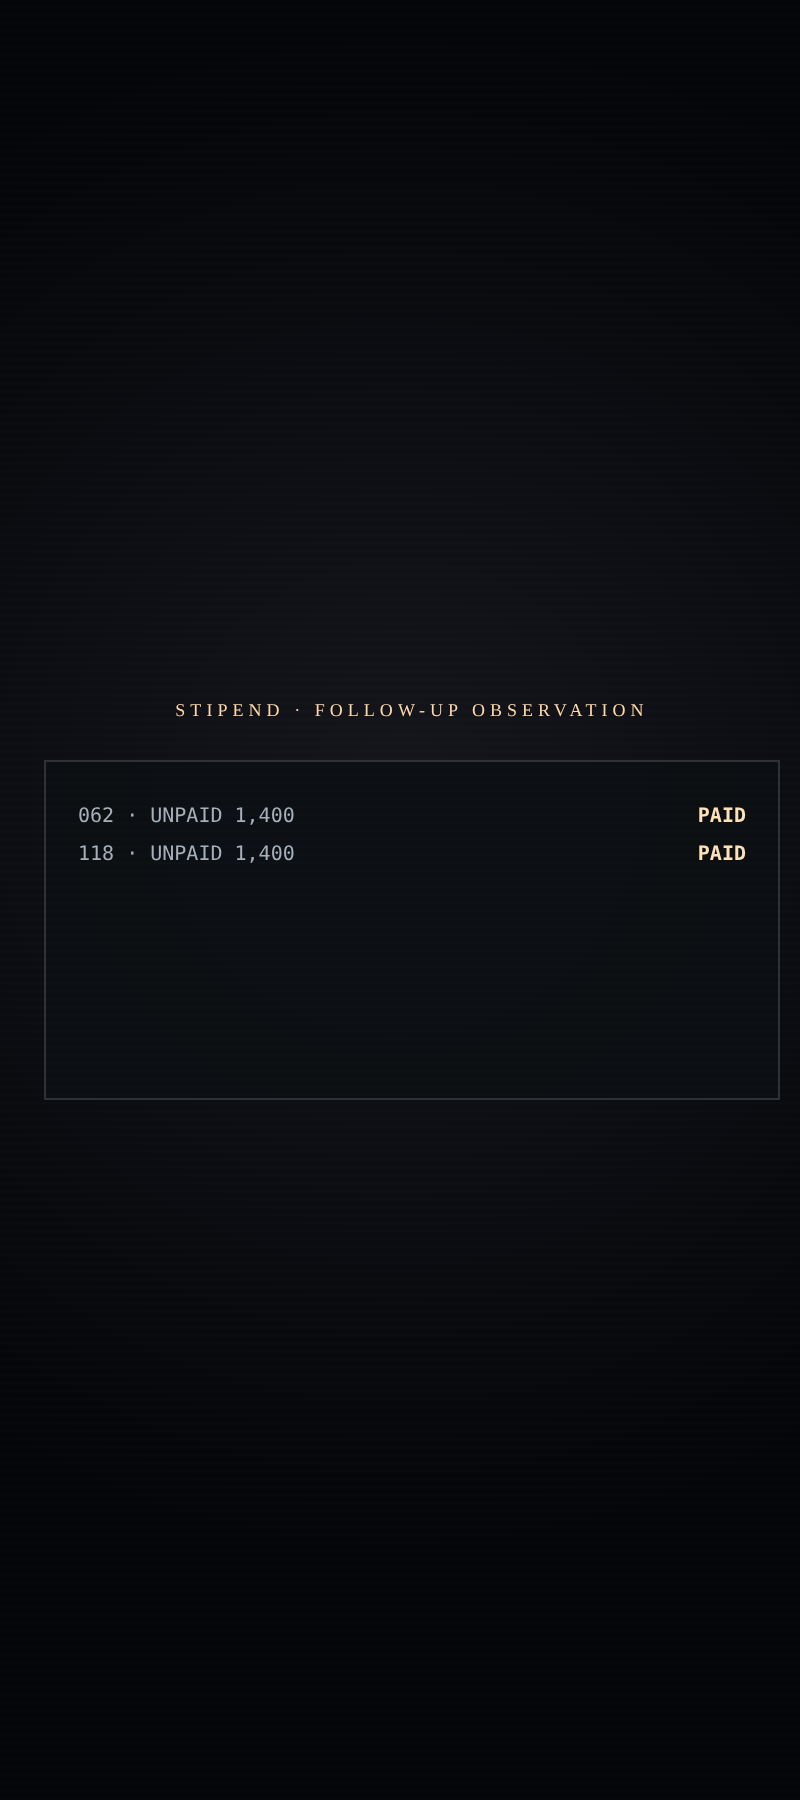
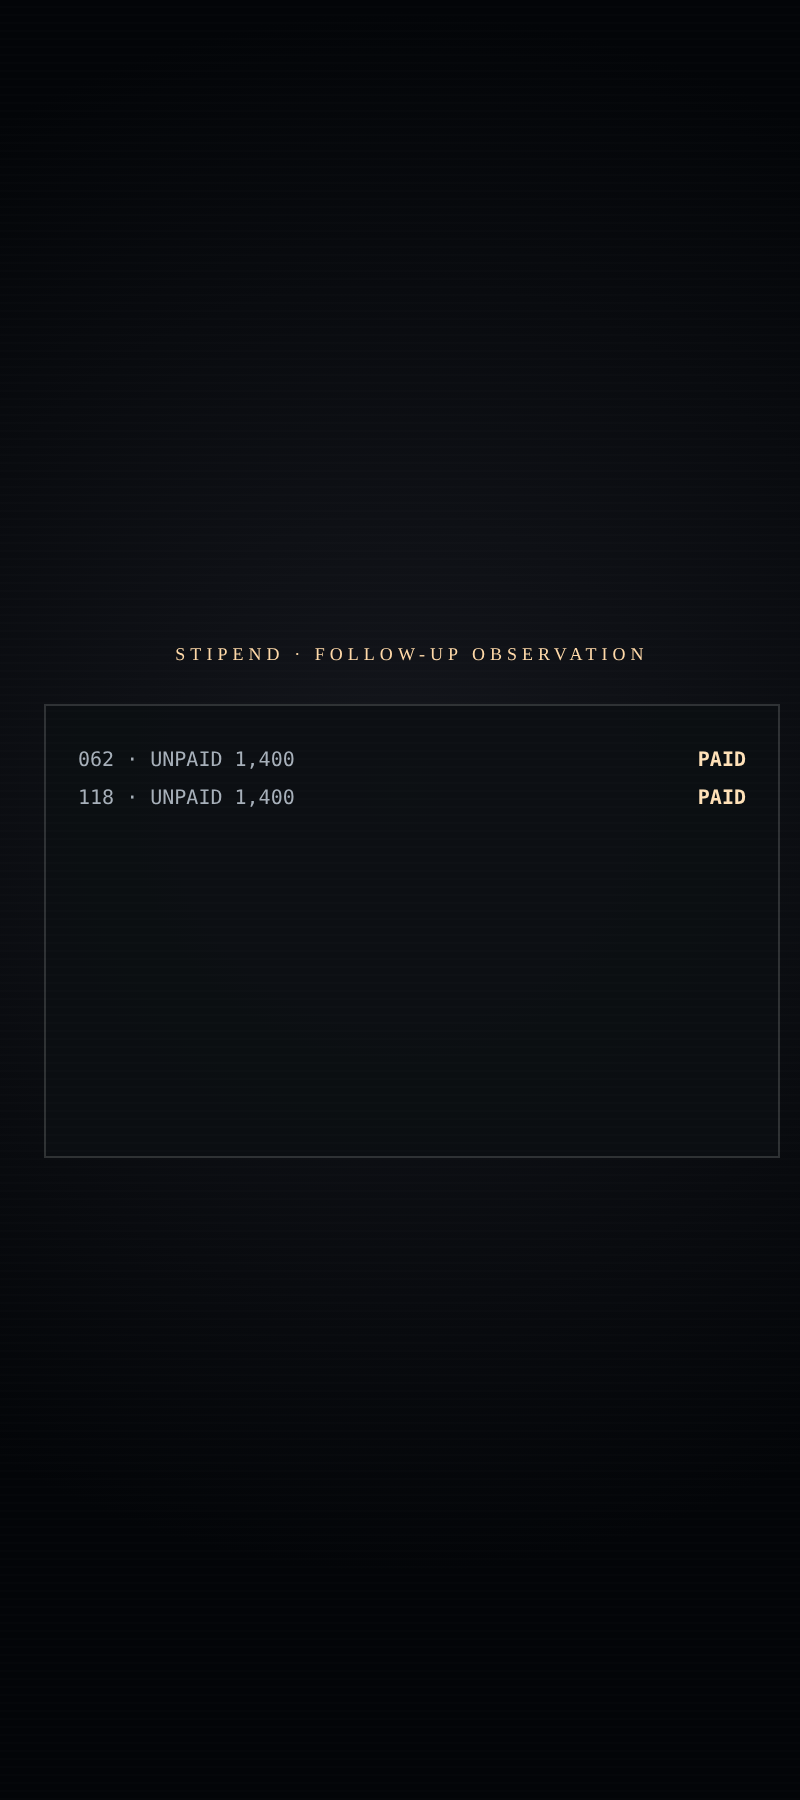
원고(검수 중): 제30화 1차 수정, paidledger 앵커와 도장 위치 수정
Claude-Session: https://claude.ai/code/session_01X4nLMuMYWbxePuAB3DmLfi

diff --git a/pilot.html b/pilot.html
@@ -341,13 +341,13 @@ body.ep8 .key{color:#0b0d10;border-color:#0b0d10;background:linear-gradient(90de
 .pl-row{display:flex;justify-content:space-between;opacity:0;animation:plIn .35s forwards}
 .pl-row:nth-of-type(1){animation-delay:.3s}.pl-row:nth-of-type(2){animation-delay:.7s}
 .pl-row b{color:#ffe1b8;font-weight:700}
-.pl-bal{margin-top:16px;border-top:1px dashed #ffffff22;padding-top:12px;opacity:0;animation:plIn .4s 1.1s forwards}
+.pl-bal{padding-bottom:40px;margin-top:16px;border-top:1px dashed #ffffff22;padding-top:12px;opacity:0;animation:plIn .4s 1.1s forwards}
 .pl-num{position:relative;height:34px;font:800 30px/34px ui-monospace,monospace;color:#ffe1b8}
 .pl-num span{position:absolute;left:0;top:0}
 .pl-num .n1{animation:plOut .4s 1.8s forwards}.pl-num .n2{opacity:0;animation:plIn .4s 2.1s forwards}
-.pl-bar{height:6px;background:#ffffff16;margin-top:8px}.pl-bar i{display:block;height:100%;width:100%;background:#ffd9a8;animation:plDrop 1s 1.8s forwards}
-.pl-stamp{position:absolute;right:12px;top:12px;border:2px solid #9fc0ff;color:#9fc0ff;font:800 11px ui-monospace,monospace;letter-spacing:.14em;padding:4px 8px;opacity:0;transform:rotate(-7deg) scale(1.7);animation:plStamp .35s 2.8s forwards}
-@keyframes plIn{to{opacity:1}}@keyframes plOut{to{opacity:0}}@keyframes plDrop{to{width:9.7%}}
+.pl-fin{margin-top:12px;color:#7d8794}.pl-bar{height:6px;background:#ffffff16;margin-top:8px}.pl-bar i{display:block;height:100%;width:100%;background:#ffd9a8;animation:plDrop 1s 1.8s forwards}
+.pl-stamp{position:absolute;right:12px;bottom:12px;border:2px solid #9fc0ff;color:#9fc0ff;font:800 11px ui-monospace,monospace;letter-spacing:.14em;padding:4px 8px;opacity:0;transform:rotate(-7deg) scale(1.7);animation:plStamp .35s 2.8s forwards}
+@keyframes plIn{to{opacity:1}}@keyframes plOut{to{opacity:0}}@keyframes plDrop{to{width:9.4%}}
 @keyframes plStamp{to{opacity:.95;transform:rotate(-7deg) scale(1)}}
 /* 화 선택: HUD 왼쪽 위에서 펼쳐진다. 닫혀 있을 때는 display:none */
 .pick{display:flex;align-items:center;gap:8px;min-width:0;max-width:min(52vw,380px);height:34px;margin-left:14px;padding:0 10px;border:1px solid #ffffff14;background:#ffffff06;color:inherit;cursor:pointer;font:10px ui-monospace,monospace;letter-spacing:.12em}
@@ -413,7 +413,7 @@ body.ep8 .pick{border-color:#0002}body.ep8 .pick b{color:#0b6f8a}
 <div class="setpiece" id="queuejump"><div class="veil"></div><div class="sp-center"><div class="qj-wrap"><div class="sp-label">NIGHT POOL · EAST 27 · WAITLIST</div><div class="qj-line"><i></i><i></i><i></i><i></i><i></i><i></i><i></i><i></i><i></i><i></i><i></i><i></i><i></i><i></i><i></i><i class="gap"></i><i></i><i></i><i></i><i></i><b class="qj-me"></b><span class="qj-tag">R-17</span></div><div class="qj-copy">줄은 그대로였다.<br><b>앞자리만 하나 먼저 찼다.</b></div></div></div></div>
 <div class="setpiece" id="twoprices"><div class="veil"></div><div class="sp-center"><div class="tp-wrap"><div class="sp-label">ONE NIGHT · TWO PRICES</div><div class="tp-row"><div class="tp-slip a"><small>MOTHER · SURVEY REWARD</small><p>3 QUESTIONS</p><p>MARKET ZONE 3</p><p>PRICE SET BY: —</p><span class="tp-amt">+3.0</span></div><div class="tp-slip b"><small>MARKET · NEW LISTING</small><p>TESTIMONY · AGE 12</p><p>INQUIRIES 11</p><p>PRICE SET BY: MARKET</p><span class="tp-amt">4,200</span></div></div></div></div></div>
 <div class="setpiece" id="eightmin"><div class="veil"></div><div class="sp-center"><div class="em-wrap"><div class="sp-label">EAST 27 · 21 YEARS · WALKING RADIUS</div><div class="em-map"><i class="em-ring r1"></i><i class="em-ring r2"></i><i class="em-ring r3"></i><i class="em-home"></i><span class="em-pin p1">PHARMACY 1 MIN</span><span class="em-pin p2">MARKET 3 MIN</span><span class="em-pin p3">HOSPITAL 8 MIN</span></div><div class="em-offer">OFFER · 12 MONTHS RESIDENCY<br>HOSPITAL 1 MIN · SECURITY 24H · RENT FROZEN<br>NEIGHBORS: <b>0</b></div></div></div></div>
-<div class="setpiece" id="paidledger"><div class="veil"></div><div class="sp-center"><div class="pl-wrap"><div class="sp-label" style="text-align:center">STIPEND · FOLLOW-UP OBSERVATION</div><div class="pl-card"><div class="pl-row"><span>062 · UNPAID 1,400</span><b>PAID</b></div><div class="pl-row"><span>118 · UNPAID 1,400</span><b>PAID</b></div><div class="pl-bal">PERSONAL ALLOWANCE<div class="pl-num"><span class="n1">3,100</span><span class="n2">300</span></div><div class="pl-bar"><i></i></div></div><span class="pl-stamp">NOT A GIFT · OVERDUE</span></div></div></div></div>
+<div class="setpiece" id="paidledger"><div class="veil"></div><div class="sp-center"><div class="pl-wrap"><div class="sp-label" style="text-align:center">STIPEND · FOLLOW-UP OBSERVATION</div><div class="pl-card"><div class="pl-row"><span>062 · UNPAID 1,400</span><b>PAID</b></div><div class="pl-row"><span>118 · UNPAID 1,400</span><b>PAID</b></div><div class="pl-bal">PERSONAL ALLOWANCE<div class="pl-num"><span class="n1">3,092.2</span><span class="n2">292.2</span></div><div class="pl-bar"><i></i></div><div class="pl-fin">SETTLED 14 → 16 / 147 · PAYER OF RECORD: —</div></div><span class="pl-stamp">OVERDUE</span></div></div></div></div>
 <div class="setpiece" id="samplelabel"><div class="veil"></div><div class="sp-center"><div class="sl2-wrap"><div class="sp-label">RECOVERED DREAM · SAMPLE</div><div class="sl2-card"><h4>DR-0317</h4><p>AGE 12 · STUDIO · 1 HOUR</p><p>OWNER: —</p><div class="sl2-meter">SMELL: EARTH — UNVERIFIED<div class="sl2-bar"><i></i></div></div><span class="sl2-stamp">NO WITHDRAWAL</span></div></div></div></div>
 <script>
 const $=id=>document.getElementById(id);
@@ -450,7 +450,7 @@ const D={
 27:{a:'#ffe1b8',b:'#9fd0ff',token:'∞',sync:11,ghost:'4,200',hook:'서인은 그 값을 계산하지 않았다.',sp:'twoprices',at:.80,on:"같은 이야기였다.",w:1400},
 28:{a:'#ffcf9e',b:'#a6c8ff',token:'∞',sync:10,ghost:'8 MIN',hook:'담요 하나를 서인 쪽으로 던지고 문을 닫았다.',sp:'eightmin',at:.50,on:"그거예요.",w:1400},
 29:{a:'#ffe4c0',b:'#9fc0ff',token:'∞',sync:9,ghost:'DR-0317',hook:'둘 다 90일 실험의 참가자였다.',sp:'samplelabel',at:.70,on:"한 시간짜리 꿈에 번호가 하나 붙어 있었다.",w:1400},
-30:{a:'#ffd9a8',b:'#a8c8ff',token:'∞',sync:8,ghost:'OVERDUE',hook:'컵라면으로 일흔다섯 개였다.',sp:'paidledger',at:.40,on:"개인 몫 잔액 300.",w:1400}
+30:{a:'#ffd9a8',b:'#a8c8ff',token:'∞',sync:8,ghost:'OVERDUE',hook:'컵라면으로 일흔세 개였다.',sp:'paidledger',at:.62,on:"지금 나가요. 1,400.",w:1400}
 };
 const esc=s=>s.replace(/[&<>]/g,c=>({'&':'&amp;','<':'&lt;','>':'&gt;'}[c]));
 function inline(s){return esc(s).replace(/\*\*(.+?)\*\*/g,'<strong>$1</strong>')}

diff --git a/manuscript/ep030.md b/manuscript/ep030.md
@@ -54,15 +54,11 @@
 
 서인은 컵라면 뚜껑 위에 젓가락을 올렸다.
 
-“어제 지우한테는 못 했어요.”
+“어제 지우한테 하지 말라고 했어요.”
 
-“뭘.”
+“그랬구나.”
 
-“하지 말라는 말이요. 했다가 안 한다고 했어요.”
-
-“그렇구나.”
-
-도윤은 그 말을 평소처럼 했다.
+“거두기는 했는데요.”
 
 “그래서 이번엔 뭘 하러 왔어.”
 
@@ -70,11 +66,11 @@
 
 서인이 말했다.
 
-“팔지 말라고 하러 갈 수는 없어요. 그럼 제가 지우한테 한 짓을 두 번 하는 거고요. 그렇다고 두 분이 이 문자를 받고 값만 올리게 둘 수도 없어요.”
+“팔지 말라고 할 수는 없어요. 지우한테 이미 한 말이니까요. 그렇다고 그냥 두면 두 분도 값만 올려 받고 끝나요.”
 
-“왜 값만 올리게 둬.”
+“값 올려 받는 게 나쁜 건 아니지.”
 
-“그게 지우가 한 거니까요.”
+“급해서 올리는 값이잖아요.”
 
 도윤은 대답하지 않고 컵라면 뚜껑을 열었다.
 
@@ -108,7 +104,7 @@
 
 도윤이 말했다.
 
-“90일 끝나고 석 달 지켜보는 동안 하루 한 번 점검받으면 수당을 주기로 했거든. 147명한테. 열네 명 분은 나갔고 나머지는 의결이 안 났어.”
+“90일 끝나고 그 뒤 석 달 더 지켜보는 동안 하루 한 번 점검받으면 수당을 주기로 했거든. 147명한테. 열네 명 분은 나갔고 나머지는 의결이 안 났어.”
 
 “왜요.”
 
@@ -118,7 +114,7 @@
 
 “우리가 비싼 약속을 했어. 지키려면 몇 달 더 걸려.”
 
-서인은 한참 장부를 봤다.
+서인은 장부 맨 아래 ‘의결 대기’ 칸을 손끝으로 짚었다.
 
 “그럼 이 두 분은 지금 팔 이유가 있는 거예요.”
 
@@ -172,11 +168,11 @@
 
 하경이 모니터를 돌렸다.
 
-**개인 몫: 3,100.**
+**개인 몫: 3,092.2.**
 
 “네 이번 달 생활비야. 이걸로 2,800 내면.”
 
-“300 남네.”
+“292 남네.”
 
 도윤이 말했다.
 
@@ -190,9 +186,9 @@
 
 서인은 하경의 눈을 마주쳤다.
 
-“언제요.”
+“언제.”
 
-“네 11일 회복 때.”
+“시술 끝나고 열하루, 네 회복 때.”
 
 도윤이 컵라면 국물을 한 모금 마시고 말을 하지 않았다.
 
@@ -250,7 +246,7 @@
 
 **정산 완료.**
 
-**개인 몫 잔액 300.**
+**개인 몫 잔액 292.2.**
 
 “고맙다.”
 
@@ -314,7 +310,7 @@
 
 도윤이 말했다.
 
-“후속 관찰 수당. 90일 끝나고 석 달 약속했던 거. 지금 입금할게요.”
+“후속 관찰 수당. 90일 끝나고 석 달 더 관찰하기로 했던 거. 지금 입금할게요.”
 
 “그거, 못 받는 걸로 알았는데요.”
 
@@ -324,7 +320,7 @@
 
 **+1,400.**
 
-재호는 화면을 한참 봤다.
+재호는 화면을 켠 채 비닐봉지를 반대 손으로 바꿔 들었다.
 
 “이게 선물이에요?”
 
@@ -340,9 +336,7 @@
 
 “우리가 말을 안 했으니까요.”
 
-서인은 휴대폰을 내미는 도윤의 손을 봤다.
-
-손은 떨리지 않았다.
+서인은 휴대폰을 내미는 도윤을 봤다.
 
 도윤은 사과하는 사람처럼 말하지 않았다.
 
@@ -370,11 +364,9 @@
 
 “근데 이건 알겠어요. 안 급할 때 정하는 게 맞아요.”
 
-서인은 비닐봉지를 쥔 재호의 손이 아까보다 풀린 것을 봤다.
+재호는 편의점 불빛 밖으로 걸어 나갔다.
 
-문제가 풀렸다는 느낌은 들지 않았다.
-
-다만 한 사람이 급하지 않게 된 만큼의 숨이 생겼다.
+비닐봉지가 걸음마다 가볍게 흔들렸다.
 
 ***
 
@@ -388,7 +380,7 @@
 
 그녀가 말했다.
 
-“문자 받았어요. 전화로 오지는 마시고 문자로 다시 하라고 했는데, 그래도 서인 씨 이름이 있으니까 이상해서요.”
+“문자 받았어요. 보낸 쪽은 전화 말고 문자로 답하라는데, 서인 씨 이름이 붙어 있으니까 이상해서요.”
 
 “죄송합니다.”
 
@@ -397,6 +389,14 @@
 “그 이름은 저한테 허락받고 쓴 게 아니에요.”
 
 “그건 짐작했어요.”
+
+“제 이름으로 온 문자는 제가 직접 답할게요.”
+
+서인이 말했다.
+
+“이름 쓰지 말라고요.”
+
+“그래 주면 고맙죠.”
 
 한미라의 목소리가 가라앉았다.
 
@@ -436,7 +436,7 @@
 
 “팔고 싶으시면 팔아도 돼요. 그건 미라 씨 꿈이니까.”
 
-서인은 그 말에 가슴이 철렁했다.
+서인은 젓가락을 내려놓았다.
 
 “팔고 싶으면 팔아도 되는 거죠?”
 
@@ -458,7 +458,7 @@
 
 한미라가 웃었다.
 
-“우선 민우한테 먼저 얘기해 줄게요. 엄마가 한때 우주선을 고쳤다는 얘기.”
+“우선 민우한테 먼저 얘기해 줄게요. 엄마가 꿈에서 우주선을 고쳤다는 얘기.”
 
 “그런 얘기 해 본 적 없어요?”
 
@@ -468,9 +468,7 @@
 
 서인은 휴대폰을 내려놓았다.
 
-한미라가 팔지 않았다는 것도, 팔 거라는 것도 확인되지 않았다.
-
-사람이 급하지 않게 되자 처음으로 그 꿈을 누구에게 먼저 말할지 고르고 있었다.
+한미라가 팔았는지 팔지 않았는지는 그 밤에 확인되지 않았다.
 
 ***
 
@@ -490,7 +488,7 @@
 
 화면에 잔액이 떴다.
 
-**296.1.**
+**288.3.**
 
 서인은 그걸 읽고 눈을 돌렸다.
 
@@ -502,7 +500,7 @@
 
 “응.”
 
-서인은 말을 고르다가 그냥 물었다.
+서인이 물었다.
 
 “제 회복 비용도, 하경이 말한 게 맞아요?”
 
@@ -518,8 +516,6 @@
 
 도윤은 웃으며 손을 흔들고 클리닉 쪽으로 걸어갔다.
 
-서인은 그 등이 비상계단 쪽으로 사라질 때까지 서 있었다.
+도윤의 이번 달 남은 몫은 288.3이었다.
 
-도윤의 이번 달 남은 몫은 296.1이었다.
-
-컵라면으로 일흔다섯 개였다.
+컵라면으로 일흔세 개였다.
